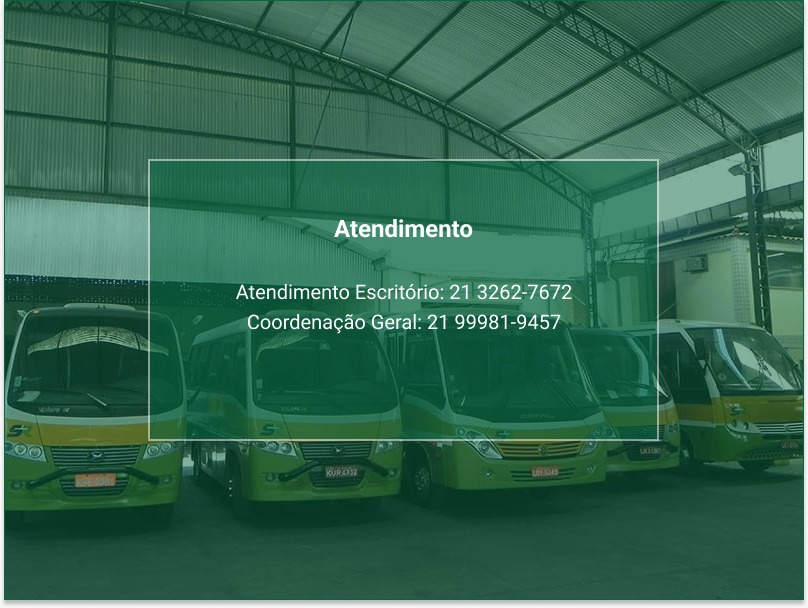
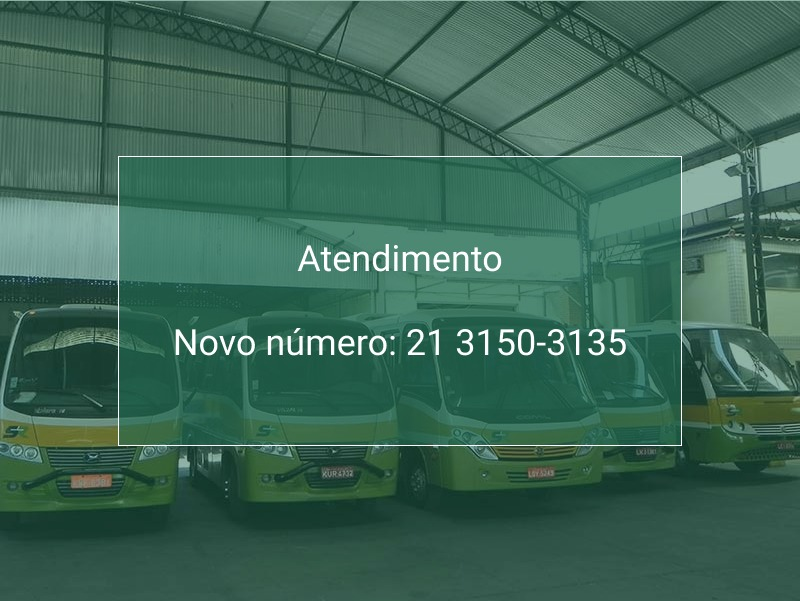
changes to locaweb

Changed region(s): [[0.0, 0.0, 1.0, 1.0]]

diff --git a/src/components/services/index.jsx b/src/components/services/index.jsx
@@ -17,7 +17,7 @@ const ServicesTab = (props) => {
 
     const EscolaParque =
     {
-
+        id: 1,
         title: 'Expresso Escola Parque',
         comment: '<p><strong>Linhas exclusivas </strong>para transporte dos alunos da Escola Parque das unidades Barra e Gávea, passando pela Lagoa, Orla, Jardim Botânico e Condomínios Península e Pedra de Itaúna, localizados na Barra da Tijuca.</p>',
         icon: `${LogoEscolaParque}`,
@@ -33,7 +33,7 @@ const ServicesTab = (props) => {
 
     const HorarioExtensoEscolaParque =
     {
-
+        id:2,
         title: 'Horário Extenso Escola Parque',
         comment: '<p><strong>Linhas exclusivas </strong>para transporte dos alunos da Escola Parque. </p>',
         icon: `${LogoEscolaParque}`,
@@ -50,7 +50,7 @@ const ServicesTab = (props) => {
 
     const EscolaCSI =
     {
-
+        id:3,
         title: 'Expresso Colégio Santo Inácio',
         comment: '<p><strong>Linhas exclusivas </strong>para transporte dos alunos do Colégio Santo Inácio.</p>',
         icon: `${LogoCSI}`,
@@ -82,7 +82,7 @@ const ServicesTab = (props) => {
 
     const AfterSchool =
     {
-
+        id: 4,
         title: 'After School Escola Americana',
         comment: '<p><strong>Linhas exclusivas </strong>para transporte dos alunos da Escola Americana. </p>',
         icon: `${Earj}`,

diff --git a/src/components/footer/index.jsx b/src/components/footer/index.jsx
@@ -11,6 +11,7 @@ import csa from "../../images/logo-CSA.svg"
 import es from "../../images/siss.jpeg"
 import br from "../../images/br.jpeg"
 import sap from "../../images/sap.jpeg"
+import jap from "../../images/jap.jpeg"
 
 
 
@@ -46,6 +47,8 @@ const Footer = () => {
       <img src={es} style={{maxWidth: '50%', marginBottom: '5px'}}/>
       <img src={br} style={{maxWidth: '100%', marginBottom: '5px', height: '150px'}}/>
       <img src={sap} style={{maxWidth: '50%', marginBottom: '5px', height: '100px'}}/>
+      <img src={jap} style={{maxWidth: '50%', marginBottom: '5px', height: '100px'}}/>
+
       </div>
 :
       <div style={{margin: '0% 0% 5% 5%'}}>
@@ -58,6 +61,7 @@ const Footer = () => {
       <img src={es} style={{maxWidth: '20%', marginRight: '10px' }}/>
       <img src={br} style={{maxWidth: '20%', marginRight: '5px', height: '150px'}}/>
       <img src={sap} style={{maxWidth: '20%', marginRight: '5px', height: '100px'}}/>
+      <img src={jap} style={{maxWidth: '20%', marginRight: '5px', height: '100px'}}/>
 
 
 

diff --git a/src/components/FrequentQuestions/index.jsx b/src/components/FrequentQuestions/index.jsx
@@ -16,7 +16,7 @@ export const ImportantQuestions = () => {
         },
         {
             question: 'Quais os bairros atendidos?',
-            answer: 'Atendemos a toda Zona Sul e Barra. Porém estamos ampliando nossas rotas para outros bairros de acordo com a necessidade dos pais e das escolas atendidas. Preencha nosso cadastro que entraremos em contato para consolidar as informações.',
+            answer: 'Atendemos toda a Zona Sul e Barra. Porém estamos ampliando nossas rotas para outros bairros de acordo com a necessidade dos pais e das escolas atendidas. Preencha nosso cadastro que entraremos em contato para consolidar as informações.',
             close: 'true'
         },
         {

diff --git a/src/components/services/service.jsx b/src/components/services/service.jsx
@@ -29,7 +29,10 @@ const Service = (props) => {
                 </Paper>
             </ContainerServices>
             <ContainerServices>
-                <img src={content.icon} alt='logo' style={{width: '50%', height: '25%'}} />
+                {content.id === 4? 
+                <img src={content.icon} alt='logo' style={{width: '20%', height: '5%'}} />
+                :<img src={content.icon} alt='logo' style={{width: '50%', height: '25%'}} />
+            }
                 <TextServices dangerouslySetInnerHTML={{ __html: content.text }}></TextServices>
             </ContainerServices>
             <ContainerServices>

diff --git a/src/components/carousel/index.jsx b/src/components/carousel/index.jsx
@@ -24,19 +24,19 @@ const tutorialSteps = [
   {
     // label: 'San Francisco – Oakland Bay Bridge, United States',
     imgPath:
-      `${Imagem1}`,
+      `${Imagem3}`,
   },
   {
     // label: 'Bird',
     imgPath:
+    `${Imagem1}`,
+  },
+  // Need change phone number on image
+  {
+    // label: 'Bali, Indonesia',
+    imgPath:
     `${Imagem2}`,
   },
-  //Need change phone number on image
-  // {
-  //   // label: 'Bali, Indonesia',
-  //   imgPath:
-  //   `${Imagem3}`,
-  // },
   {
     // label: 'Bali, Indonesia',
     imgPath:

diff --git a/src/components/FrequentQuestions/question.jsx b/src/components/FrequentQuestions/question.jsx
@@ -70,7 +70,7 @@ function Questions(props) {
                                 </Grid>
                             </Grid>
                             {item.close === false ?
-                                <Typography component="p">
+                                <Typography component="p" style={{marginTop: '15px'}}>
                                     {item.answer}
                                 </Typography>
                                 : ''}
